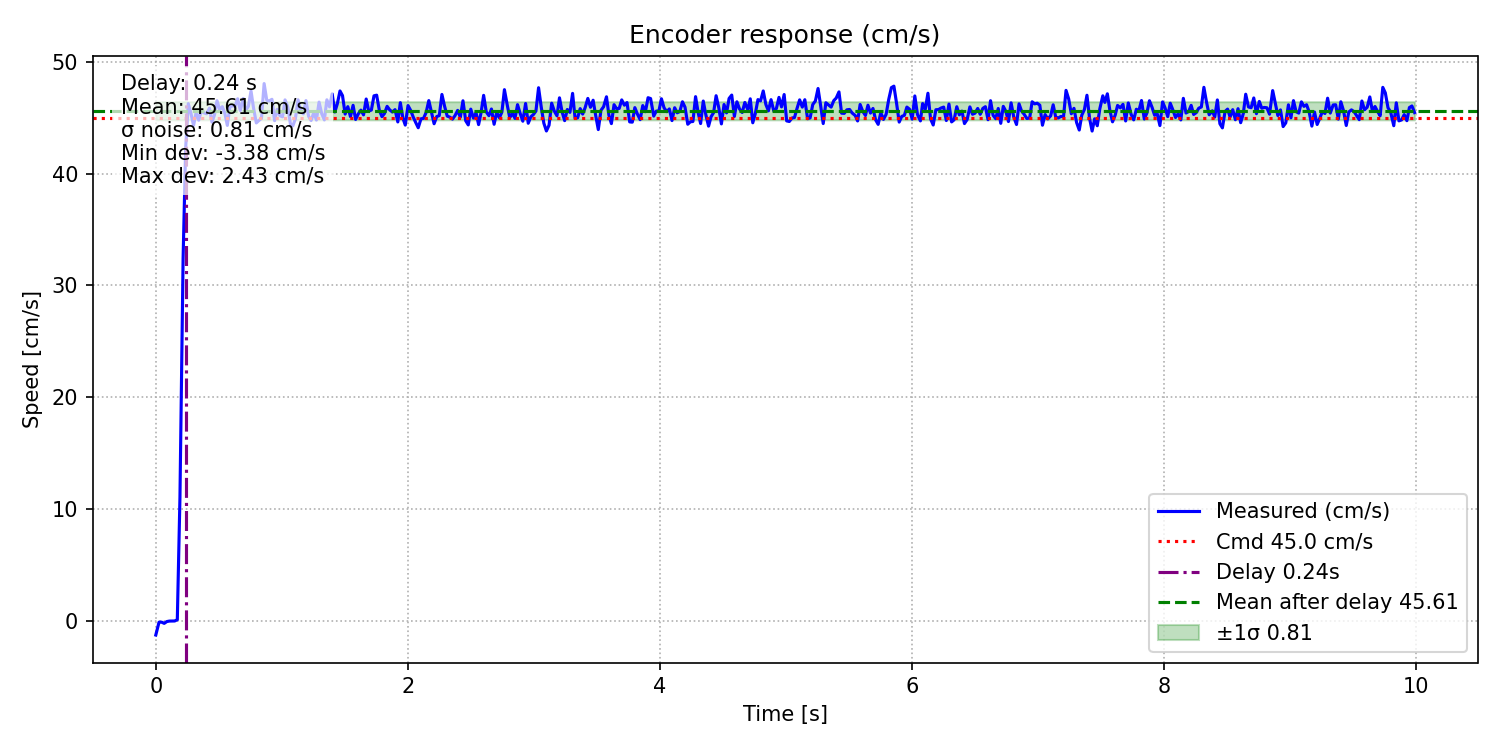
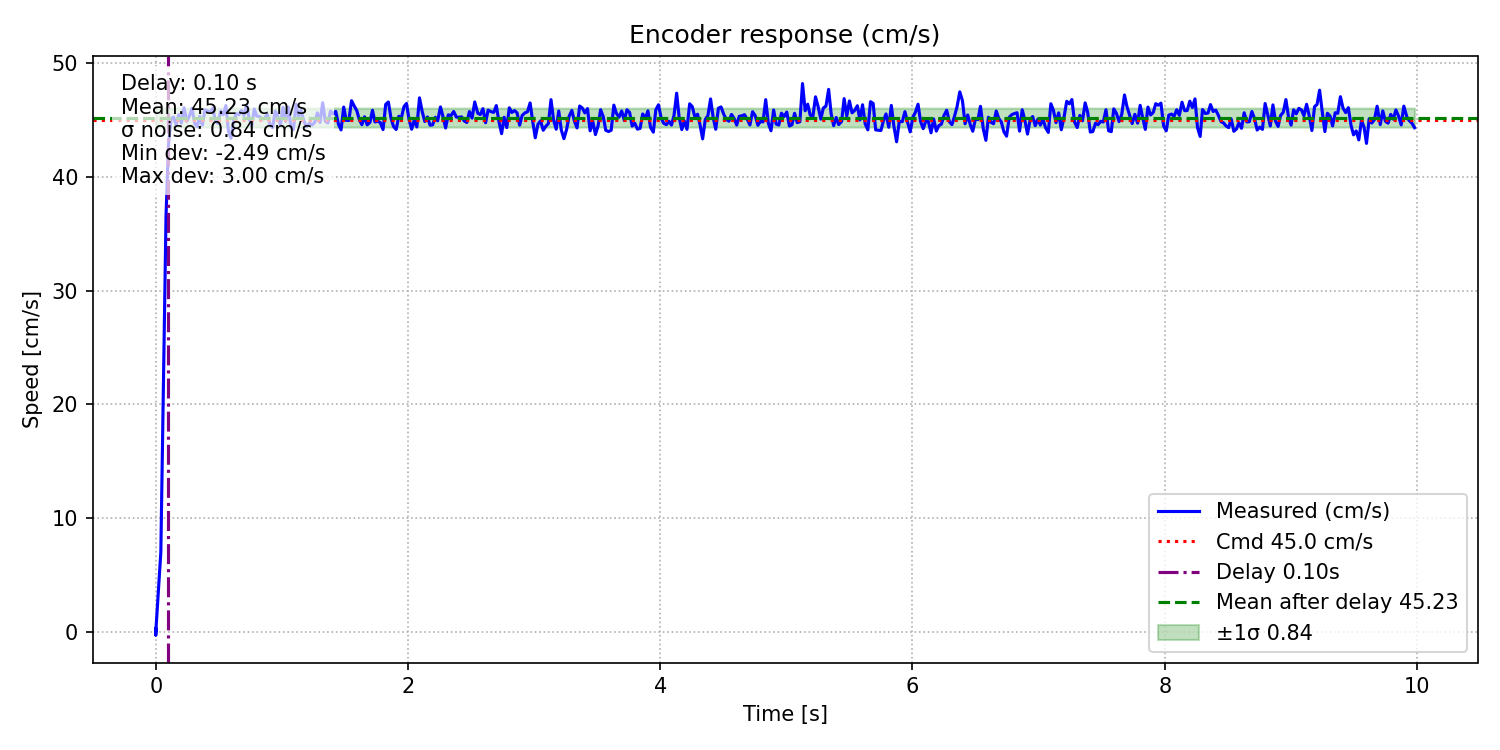
encoder spike filtering

diff --git a/Embedded_Platform/Embedded_2024/source/periodics/encoder.cpp b/Embedded_Platform/Embedded_2024/source/periodics/encoder.cpp
@@ -140,56 +140,78 @@ float clamp(float x, float min, float max) {
     return x;
 }
 
-float CEncoder::readAngularSpeedKf() {
-    if (!_kfTimerStarted) {
-        _kfTimer.start();
-        _kfTimerStarted = true;
-    }
-    static uint32_t lastT_us = 0;
-    uint32_t now_us = _kfTimer.read_us();      // µs resolution (ticker @ 1 MHz)
+float CEncoder::readAngularSpeedKf()
+{
+    /* ───────────── 1. time base ───────────── */
+    if (!_kfTimerStarted) { _kfTimer.start(); _kfTimerStarted = true; }
 
-    if (lastT_us == 0) {                       // first call
-        lastT_us = now_us;
-        return 0.0f;                           // nothing to report yet
-    }
+    static uint32_t last_us = 0;
+    const uint32_t now_us = _kfTimer.read_us();
+    if (last_us == 0) { last_us = now_us; return 0.0f; }
 
-    float dt = (now_us - lastT_us) * 1e-6f;    // → seconds (≈ 0.001 s)
-    lastT_us = now_us;
+    const float dt = (now_us - last_us) * 1e-6f;     // ≈ 0.001 s
+    last_us = now_us;
 
-    /* ---------- 2. raw measurement (0‒360 deg) ---------- */
-    float rawDeg = m_pwm.dutycycle() * 360.0f;   // instantaneous encoder reading
+    /* ───────────── 2. raw angle ────────────── */
+    float rawDeg = m_pwm.dutycycle() * 360.0f;
 
-    /* ---------- 3. unwrap across revolutions ---------- */
-    float diff = rawDeg - _prevRawAngleDeg;
-    if      (diff >  180.0f) _unwrapRevs--;     // wrapped 360→0 forward
-    else if (diff < -180.0f) _unwrapRevs++;     // wrapped 0→360 backward
+    /* ───────────── 3. unwrap ───────────────── */
+    float diffRaw = rawDeg - _prevRawAngleDeg;           // -360…+360
+    if      (diffRaw >  180.0f) _unwrapRevs--;
+    else if (diffRaw < -180.0f) _unwrapRevs++;
     _prevRawAngleDeg = rawDeg;
-    float unwrappedDeg = rawDeg + 360.0f * _unwrapRevs;
 
-    /* ---------- 4. Kalman predict + update ---------- */
+    float measDeg = rawDeg + 360.0f * _unwrapRevs;       // absolute angle
+
+    /* ───────────── 4. Kalman predict ───────── */
     _kf.predict(dt);
-    _kf.update(unwrappedDeg);
 
-    float speedDegPerSec = _kf.speed;           // final estimate
+    /* ───────────── 4a. step‑size glitch gate ─ */
+    constexpr float STEP_LIM = 15.0f;   // max is 7.5 for 50cm/s at 1000 Hz
+    static int  overLimitCnt = 0;       // counts consecutive big steps
+    static int  overLimitCntThreshold = 3; // threshold for accepting big steps
 
-    /* ---------- 5. (optional) speed hysteresis ---------- */
+    if (fabsf(diffRaw) <= STEP_LIM) {
+        /* normal small step ─ always accept */
+        _kf.update(measDeg);
+        overLimitCnt = 0;               // reset streak
+    } else {
+        /* big step */
+        if (++overLimitCnt >= overLimitCntThreshold) {      // third big step in a row → accept
+            _kf.update(measDeg);
+            overLimitCnt = 0;           // reset after acceptance
+        }
+        /* else: <3 big steps so far → reject this sample */
+    }
+
+    /* ───── 4a. innovation‑based glitch gate ────────────────────── */
+    // float innov = measDeg - _kf.ang;                     // prediction residual
+    // innov -= 360.0f * std::round(innov / 360.0f);        // wrap to (‑180, +180]
+
+    // constexpr float INNOV_LIM = 45.0f;                   // 3 ms of max speed
+
+    // if (fabsf(innov) <= INNOV_LIM) {                     // plausible ?
+    //     _kf.update(measDeg);                             // yes -> use it
+    // }
+
+    // _kf.update(measDeg);
+
+    /* ───────────── 5. result ───────────────── */
+    float speedDegPerSec = _kf.speed;
     speedDegPerSec = applySpeedHysteresis(speedDegPerSec);
 
-    /* ---------- 6. publish at user‑chosen rate ---------- */
-    static float reportAccum = 0.0f;
-    reportAccum += dt;
-    if (reportAccum >= REPORT_INTERVAL_SEC) {
-        reportAccum = 0.0f;
+    /* ───────────── 6. periodic publish ─────── */
+    static float accum = 0.0f;
+    accum += dt;
+    if (accum >= REPORT_INTERVAL_SEC) {
+        accum = 0.0f;
         char buf[48];
         int n = std::snprintf(buf, sizeof(buf),
                               "@5:%.3f;;\r\n",
                               speedDegPerSec / DEGREE_PER_CM);
-        if (n > 0 && static_cast<std::size_t>(n) < sizeof(buf))
-            m_serial.write(buf, n);
+        if (n > 0 && (size_t)n < sizeof(buf)) m_serial.write(buf, n);
         lastPublishedSpeed = speedDegPerSec;
     }
-
-
     // int len = snprintf(buf, sizeof(buf),
     //                 "[Encoder] Total displacement = %.2f°\n",
     //                 displacementDeg);
@@ -301,56 +323,6 @@ void CEncoder::_run() {
     // readAngularSpeed();
     
     // displacementDeg = getTotalDisplacementDegrees(); 
-
-    // static Timer execTimer;
-    // static bool timerStarted = false;
-    // if (!timerStarted) {
-    //     execTimer.start();
-    //     timerStarted = true;
-    // }
-
-    // uint32_t start_us = execTimer.read_us();
-
-    // float angleDeg = readAngleDegrees();
-    // float speedDeg = readAngularSpeed();
-    // displacementDeg = getTotalDisplacementDegrees(); 
-
-    // // ————— 5) Mark end of execution and accumulate for average print
-    // uint32_t end_us     = execTimer.read_us();
-    // uint32_t elapsed_us = end_us - start_us;
-
-    // static uint64_t sum_exec   = 0;
-    // static uint32_t count_exec = 0;
-    // static uint64_t sum_interval_us = 0;
-    // static uint32_t count_interval  = 0;
-    // static uint32_t prevStart_us    = 0;
-
-    // // Accumulate period statistics (unchanged)
-    // if (prevStart_us != 0) {
-    //     uint32_t delta_start = start_us - prevStart_us;
-    //     sum_interval_us += delta_start;
-    //     count_interval++;
-    // }
-    // prevStart_us = start_us;
-
-    // sum_exec   += elapsed_us;
-    // count_exec += 1;
-
-    // constexpr uint32_t AVG_N = 200;
-    // if (count_exec >= AVG_N) {
-    //     uint32_t avg_exec     = sum_exec / AVG_N;
-    //     uint32_t avg_interval = (count_interval > 0)
-    //                               ? static_cast<uint32_t>(sum_interval_us / count_interval)
-    //                               : 0;
-
-    //     // printf("\n[Encoder] avg exec = %u µs, avg period = %u µs over %u runs\n",
-    //     //        avg_exec, avg_interval, AVG_N);
-
-    //     sum_exec         = 0;
-    //     count_exec       = 0;
-    //     sum_interval_us  = 0;
-    //     count_interval   = 0;
-    // }
 }
 
 } // namespace periodics

diff --git a/Embedded_Platform/Embedded_2024/scripts/encoder_noise_test.py b/Embedded_Platform/Embedded_2024/scripts/encoder_noise_test.py
@@ -165,9 +165,9 @@ def save_plot(times: list[float], speeds: list[float], cmd_speed: float, delay: 
 
 def main() -> None:
     ap = argparse.ArgumentParser(description="Constant‑speed noise test with delay estimation (cm/s)")
-    ap.add_argument("--cmd", type=float, default=45, help="Commanded speed [cm/s]")
+    ap.add_argument("--cmd", type=float, default=75, help="Commanded speed [cm/s]")
     ap.add_argument("--steer", type=float, default=0, help="Steering angle [deg]")
-    ap.add_argument("--dur", type=float, default=10, help="Duration [s]")
+    ap.add_argument("--dur", type=float, default=5, help="Duration [s]")
     ap.add_argument("--csv", type=Path, help="Save raw data to CSV")
     ap.add_argument("--port", default="/dev/ttyACM0")
     ap.add_argument("--baud", type=int, default=115200)
